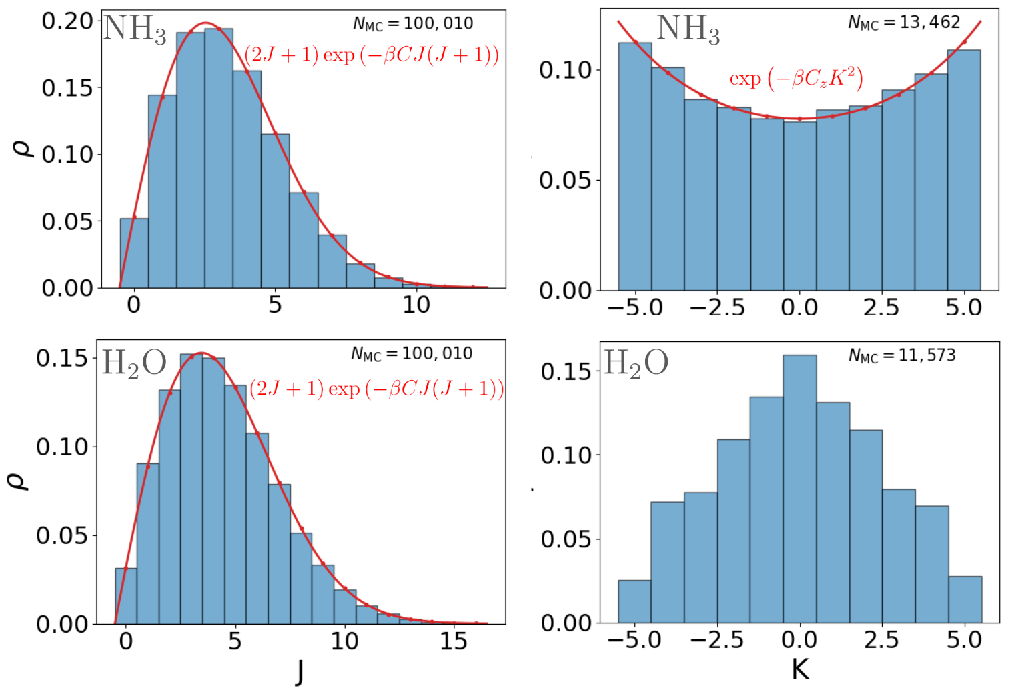
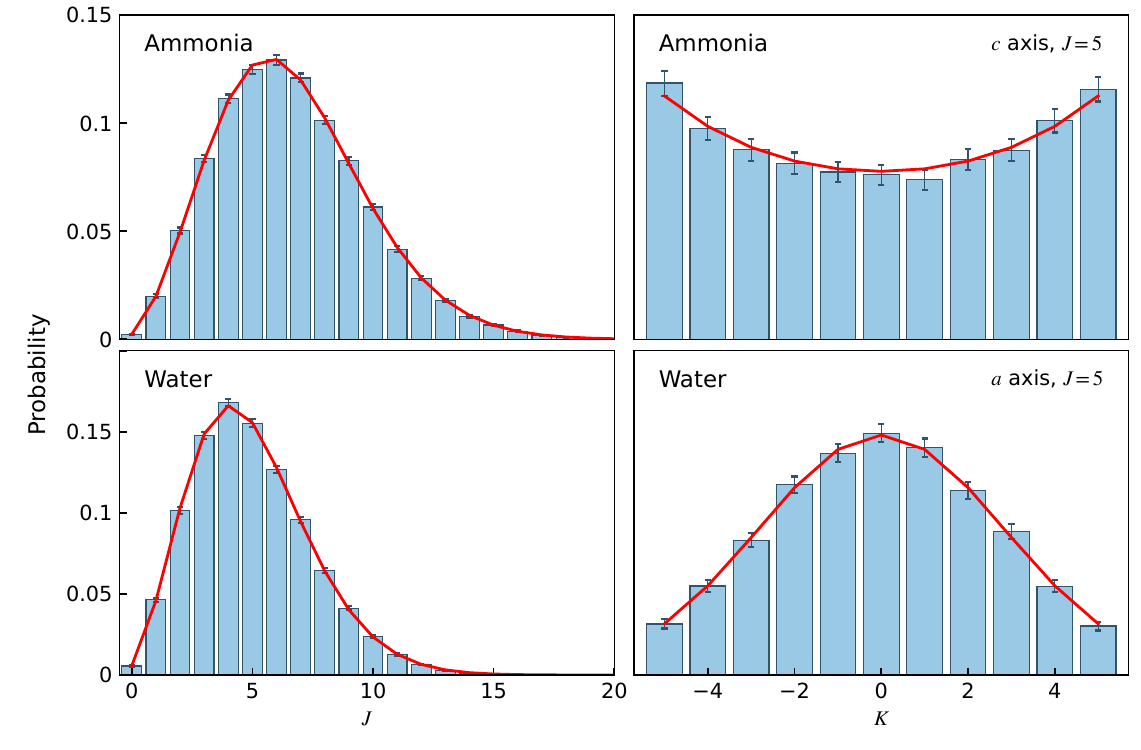
Update docs to match revised manuscript and v0.1.5 code
- Replace rotato.png, asymplot.png, intermom.png with new manuscript figures
  (interval-smoothed thermal distributions; Sharp K vs interval vs quantum
  angular densities; scaled L/J_AB/J/speed panel)
- visual-guide.md: update rotato and asymplot captions; add intermom section
  describing the ensemble angular-momentum diagnostics; expand asymplot
  caption to describe the interval-smoothing scheme
- wang-landau.md: add historical WL figures to the WL section
- installation.md: Python 3.11 → 3.12; add release-tag checkout note
- troubleshooting.md: Python 3.11 → 3.12
- input-files.md: remove "Wang-Landau umbrellas" from run-dir description;
  update maxj and fixed-b descriptions; simplify maxl/maxj paragraph
- quick-start.md: fix duplicate section 5 (renumber to 6/7)

diff --git a/docs/input-files.md b/docs/input-files.md
@@ -102,9 +102,9 @@ creates:
 rd_tutorial_input/
 ```
 
-This directory contains restart files, Wang-Landau umbrellas, histograms, and
-outputs. If two calculations use the same `run-tag`, they use the same run
-directory. Choose a new `run-tag` when comparing different setups.
+This directory contains restart files, histograms, and outputs. If two
+calculations use the same `run-tag`, they use the same run directory. Choose a
+new `run-tag` when comparing different setups.
 
 ## Common Keys
 
@@ -358,18 +358,17 @@ over the intermolecular relative speed.
 | `Rz` | `Rz = 15.0` | Initial separation along the collision axis, in Angstrom. |
 | `beam-angle` | `beam-angle = 90.0` | Crossed-beam angle in degrees. |
 | `maxb` | `maxb = 10.0` | Maximum impact parameter estimate, in Angstrom. |
-| `fixed-b` | `fixed-b = 3.5` | Fixed impact parameter in Angstrom. This bypasses impact-parameter sampling and derives the corresponding orbital angular momentum from the sampled relative velocity. Currently use with `wang = False`. |
+| `fixed-b` | `fixed-b = 3.5` | Fixed impact parameter in Angstrom. This bypasses impact-parameter sampling and derives the corresponding orbital angular momentum from the sampled relative velocity. |
 | `impact-phi` | `impact-phi = 0.0` | Fixed impact-parameter azimuth in the lab frame, in radians. Omit this key to sample the azimuth. This controls the collision plane, not the full Jacobi/Euler `phi, beta, chi` transformation reconstructed later from the Cartesian geometry. |
 | `output-frame` | `internal` or `incoming-k-plus-z` | Reporting/export frame convention. `internal` is the historical ICATS default. `incoming-k-plus-z` applies an `Rx(pi)` transform before reporting, analysis, audit, and Cartesian export so the incoming relative wave vector is parallel to space-fixed `+Z`. |
 | `maxl` | `maxl = 80` | Maximum orbital angular momentum quantum number. |
-| `maxj` | `maxj = 80` | Maximum total angular momentum for Wang-Landau/J setup. If `maxl` is omitted, ICATS can use `maxj` as the orbital cap. |
+| `maxj` | `maxj = 80` | Legacy total-angular-momentum cap. If `maxl` is omitted, ICATS can use `maxj` as the orbital cap; prefer `maxl` for new runs. |
 | `orbital-sampling` | `geometric`, `flat-l`, `flat-b` | Geometric sampling uses the impact-parameter area measure. `flat-l` is uniform in the label L with magnitude `sqrt(L(L+1))`; `flat-b` is uniform in impact parameter. Flat proposals need their respective area weights. |
 | `chi` | `chi = 0.0` | Legacy azimuthal scattering-angle/control variable. Do not use this to fix the lab impact plane; use `impact-phi` for that. |
 | `phisample` | `True` or `False` | Legacy standard-azimuth switch. In isotropic runs, `True` rotates the sampled system to a standard azimuth unless `impact-phi` is explicitly set. |
 
-For non-Wang-Landau runs, `maxl` is usually the direct cap. For Wang-Landau
-runs, `maxj` is the important requested total-`J` range, but `L` still enters
-the actual Cartesian collision geometry.
+`maxl` is the orbital cap for geometric runs. `maxj` is a legacy alias that
+acts as the orbital cap when `maxl` is absent; prefer `maxl` for new runs.
 
 Choose `output-frame` before running `icats.init`. It changes the printed
 space-fixed vector components, SF/BF Euler angles, and exported xyz/vel files,

diff --git a/docs/visual-guide.md b/docs/visual-guide.md
@@ -206,6 +206,13 @@ a classical vector-model angular momentum consistent with the top type:
 - symmetric prolate or oblate top,
 - asymmetric top.
 
+For a thermal asymmetric-top ensemble, ICATS draws J from the corrected
+canonical rotor populations (proportional to `(2J+1) exp(-beta C J(J+1))`)
+and K from the thermal projection distribution for the chosen quantisation
+axis. The left column shows J histograms against the Boltzmann reference;
+the right column shows K histograms at a representative J for NH3 (c axis)
+and H2O (a axis).
+
 The corresponding `.info` lines include:
 
 ```text
@@ -222,13 +229,42 @@ reconstructed from all Cartesian coordinates and velocities. A propagated
 vibrating molecule can also contain geometry-dependent and intrinsic
 vibrational angular momentum.
 
+## Angular Momentum Distributions
+
+![System angular-momentum and speed distributions](assets/figures/intermom.png)
+
+For a thermal NH3 + H2O ensemble, the left column shows the orbital (`L`) and
+total (`J`) angular-momentum histograms against their geometric and coupled
+reference distributions. The right column shows the molecular `J_AB` and
+the relative speed `|V_AB|`. These are the primary ensemble diagnostics to
+inspect before running trajectories: check that the reference curves (red)
+agree with the histograms and that neither `L` nor `J` is truncated at the
+upper cutoff.
+
+The input keys that control these distributions are:
+
+```text
+maxl = ...      # orbital cutoff (in units of hbar)
+maxb = ...      # impact-parameter cutoff (bohr)
+Trot = ...      # rotational temperature (K)
+relative-velocity = ...
+collision-energy = ...
+```
+
 ## Vector Model And Asymmetric Tops
 
 ![Asymmetric-top state distribution](assets/figures/asymplot.png)
 
-The extended vector model lets ICATS keep a compact classical representation
-for different rotor types while still writing Cartesian coordinates and
-velocities. For asymmetric tops the code samples state information, constructs
+The figure compares quantum orientation densities (black) with discrete-K
+classical sampling (Sharp K, orange dashed) and interval-smoothed sampling
+(Interval smoothing, teal) for selected water states projected along the `a`
+body-fixed axis. The smoothing scheme draws the continuous projection `K_c`
+from a unit-width interval centred on the integer `K_0` and applies a
+relative-entropy correction to enforce `<K_c^2> = K_0^2`; the azimuthal
+angle follows a von Mises distribution that similarly preserves the transverse
+second moments.
+
+For asymmetric tops the code samples state information, constructs
 the vector-model rotor contribution, and then the analysis checks what the
 Cartesian sample actually contains.
 

diff --git a/docs/installation.md b/docs/installation.md
@@ -14,7 +14,7 @@ installed for other projects.
 One suitable workflow is:
 
 ```bash
-conda create -n icats python=3.11
+conda create -n icats python=3.12
 conda activate icats
 ```
 
@@ -23,17 +23,27 @@ can install NumPy/SciPy-based packages.
 
 ## Install from GitHub
 
-Clone the repository and install ICATS in editable mode:
+Clone the repository and install ICATS:
 
 ```bash
 git clone https://github.com/Robertopherson/ICATS.git
 cd ICATS
-python -m pip install -e .
+python -m pip install .
 ```
 
-Editable mode is useful while the package is still under active development,
-because updates to the source tree are immediately visible to the command-line
-tools.
+To pin to a specific release (recommended for reproducibility):
+
+```bash
+git checkout v0.1.5
+python -m pip install .
+```
+
+For development, editable mode makes source-tree changes immediately visible
+to the command-line tools:
+
+```bash
+python -m pip install -e .
+```
 
 ## Optional Dynamics Dependencies
 

diff --git a/docs/wang-landau.md b/docs/wang-landau.md
@@ -31,6 +31,15 @@ default) and generate a fresh ensemble.
 Old Wang-Landau checkpoints, stored umbrellas, or reweighting profiles must not
 be reused with the revised sampler. Start in a new directory.
 
+The figures below illustrate the WL workflow that is no longer used. The left
+panel shows an NH3 + H2O orbital-angular-momentum histogram generated with WL
+active; the right panel shows the stored umbrella (density estimate) that
+controlled the reweighting.
+
+![WL NH3+H2O orbital distribution](assets/figures/wl-nh3-h2o-linear-lj.png)
+
+![WL NH3+H2O umbrella](assets/figures/wl-nh3-h2o-umbrella.png)
+
 ## Old Gaussian Rotor Broadening
 
 Earlier versions used a Gaussian broadening in the projection quantum number

diff --git a/docs/quick-start.md b/docs/quick-start.md
@@ -154,7 +154,7 @@ To understand the first generated log, read
 [Annotated First Output](annotated-output.md) with `out_full.info` or
 `dynamics*.analinfo` open.
 
-## 5. Run The Cheap Dynamics Demonstration
+## 6. Run The Cheap Dynamics Demonstration
 
 The tutorial can now pass the generated samples to the simple demonstration
 dynamics script:
@@ -166,7 +166,7 @@ dynamics script:
 This step is optional. It exists to teach the file pipeline; serious production
 work may use a different dynamics code.
 
-## 6. Analyse Generated Trajectories
+## 7. Analyse Generated Trajectories
 
 ```bash
 ./run_analysis.sh

diff --git a/docs/troubleshooting.md b/docs/troubleshooting.md
@@ -42,7 +42,7 @@ If a binary compatibility error mentions NumPy, create a fresh environment and
 reinstall ICATS there. Do not reuse the incompatible environment:
 
 ```bash
-conda create -n icats-clean python=3.11
+conda create -n icats-clean python=3.12
 conda activate icats-clean
 python -m pip install -e ".[dynamics]"
 ```
